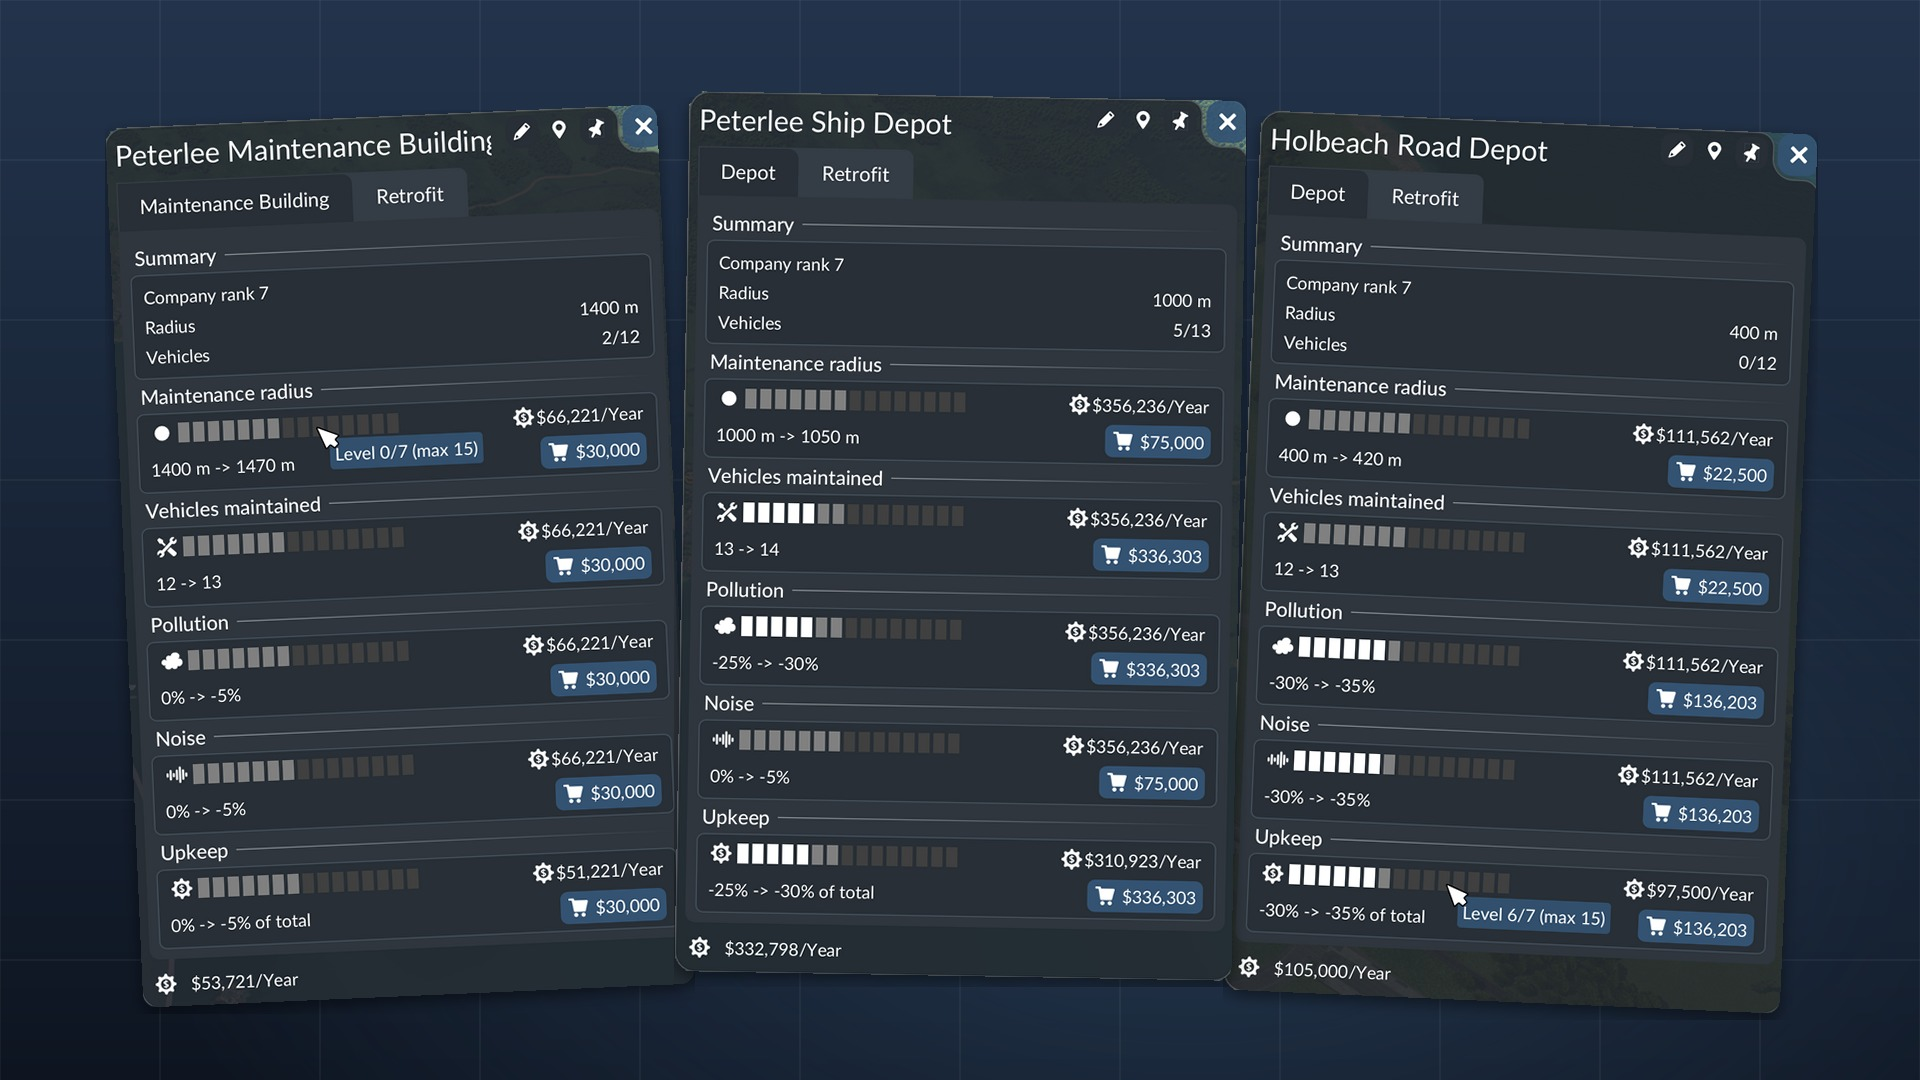
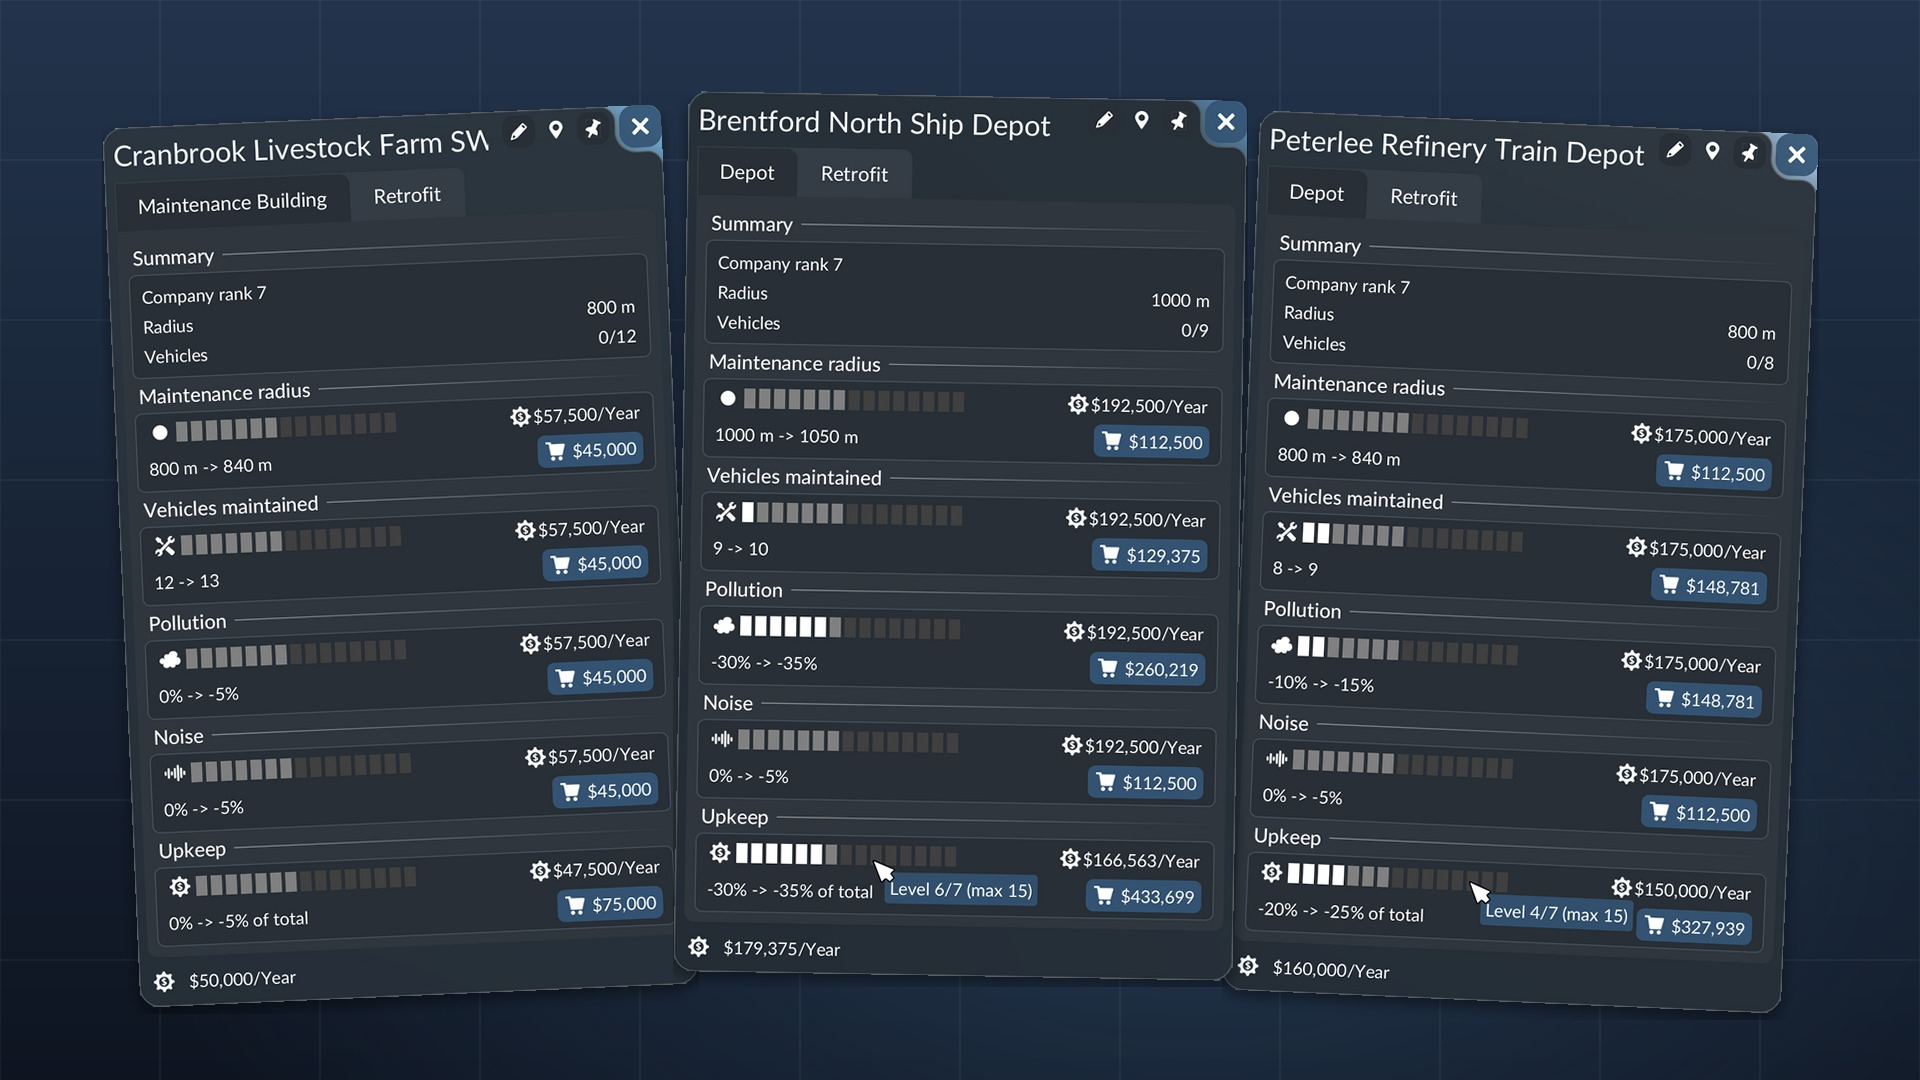
Gallery: retake 1.jpg to 3.jpg with the new prices, add 4.jpg
The old images showed the 0.10 × 1.35 ladder with the upkeep tree priced
like the others. New shots (save WR26A Giga-Tv3 1904 1029-2359, rank 7)
are of buildings at level 0, with only upkeep levels, or bought once since
the 15% upkeep step, so every figure is the current formulas'.

- 1.jpg: maintenance building, ship depot and train depot cards.
- 2.jpg to 4.jpg: ship depot, boathouse, rail maintenance building.
- publishing.md, CLAUDE.md and the make_gallery docstring list the new
  files; TODO ticks the retake.

diff --git a/tools/make_gallery.py b/tools/make_gallery.py
@@ -10,7 +10,7 @@ Cards are listed from the bottom of the pile to the top. angle is in degrees (po
 pixels, slot is its place from the left (default: its place in the list). Needs rsvg-convert, for the background.
 
 The current listing's 1.jpg (three Retrofit tabs) was made with:
-python3 tools/make_gallery.py depot_retrofits_1/_metadata/1.jpg maintenance_building.png:2.5:16:0 road_depot.png:-2.5:22:2 ship_depot.png:-1:-4:1
+python3 tools/make_gallery.py depot_retrofits_1/_metadata/1.jpg maintenance_building.png:2.5:16:0 train_depot.png:-2.5:22:2 ship_depot.png:-1:-4:1
 """
 import subprocess
 import sys

diff --git a/TODO.md b/TODO.md
@@ -3,7 +3,7 @@
 ## In short
 
 - **Where it stands.** 0.5 is on `main`: levels are stored, applied and bought in the Retrofit tab, and the game script only handles buys. It has not been released.
-- **Before a release.** An in-game test of the code review fixes (charging when the rebuild lands, the module wrapper's recorded base pool), new gallery screenshots with the current prices, then the release itself.
+- **Before a release.** An in-game test of the code review fixes (charging when the rebuild lands, the module wrapper's recorded base pool), then the release itself.
 
 ## Before a release
 
@@ -16,7 +16,7 @@
 - [ ] Test the code review fixes in game. Buys: each logs `buy sent` and then `buy charged` with the shown price, the balance falls by it, and a quick double click is still refused (stale or pending) with nothing charged. Roundhouse: add a stall to a levelled one and check the `module` line's `baseSource` (`recorded` means the game hands the modules the wrapper's own table; `inverted` is the fallback) and that the pool is the formula's. Also check that the chimney's pollution or noise is cut by those trees: the wrapper only scales the depot subconstruction's emissions.
 - [ ] Check which finance rows the level charges land in (booked as depot construction).
 - [ ] Confirm that the upkeep tree leaves the vehicles' running cost (the accumulated costs in the upkeep footer) alone, as designed: on two like buildings servicing similar vehicles, one with upkeep levels, the accumulated costs should grow at the same rate.
-- [ ] Retake the gallery `_metadata/1.jpg` to `3.jpg`: they show the old price ladder (the upkeep tree priced like the others), and 2.jpg an old buy tooltip. Use buildings at level 0, with only upkeep levels, or bought once since the 15% upkeep step; buildings levelled before it show prices 25% to 43% too high until rebuilt (docs/design/findings.md). Full 4K screenshots will do: crop the window for `tools/make_gallery.py` (same angles and slots as its docstring), and crop 2.jpg and 3.jpg to 16:9 at 1920x1080.
+- [x] Retake the gallery `_metadata/1.jpg` to `3.jpg`, and add `4.jpg`: the old images showed the old price ladder (the upkeep tree priced like the others), and 2.jpg an old buy tooltip. Use buildings at level 0, with only upkeep levels, or bought once since the 15% upkeep step; buildings levelled before it show prices 25% to 43% too high until rebuilt (docs/design/findings.md). Full 4K screenshots will do: crop the window for `tools/make_gallery.py` (same angles and slots as its docstring), and crop 2.jpg and 3.jpg to 16:9 at 1920x1080.
 - [ ] Release, following [docs/publishing.md](docs/publishing.md): the listing text in `_metadata/modinfo.json` (drop its "IN DEVELOPMENT" paragraph if it no longer applies), the CHANGELOG entry and `modVersion`, README status, the upload, a test of the published copy, then a `v*.*` tag and GitHub release (both immutable). After the first upload, commit `mod.io_fileid.txt` and note whether the gallery took `2.jpg` and `3.jpg`.
 
 ## Design

diff --git a/docs/publishing.md b/docs/publishing.md
@@ -23,7 +23,7 @@
 2. **Upload.** Start the game, open **Mod Hub**, then **My Mods**, and click the mod's card. In the dialog:
    - **Validation** should read "No Issues Found" (**Re-Validate** runs it again).
    - **Preview**: the cover. On the first upload click the slot (camera icon) and pick `0.jpg`; without a cover the card shows a "?".
-   - **Gallery**: `1.jpg`, `2.jpg`, `3.jpg` in that order. See [Gallery](#gallery) before moving any.
+   - **Gallery**: `1.jpg`, `2.jpg`, `3.jpg`, `4.jpg` in that order. See [Gallery](#gallery) before moving any.
    - Tick both **PC** and **Console** for the two files (Windows, Mac and Linux; Xbox Series X/S and PlayStation 5).
    - **Set Public** ticked. Unticked, the page is hidden from visitors.
    - **Update Metadata** ticked, so the page takes the name, summary, description and tags from `modinfo.json`.
@@ -41,7 +41,7 @@
 - **The order is the file names.** In Best Before's dialog the gallery showed its images sorted by name, and the page followed the dialog.
 - **Moving a thumbnail swaps the files.** Each thumbnail in the dialog has a small < (Move Left), > (Move Right) and bin over its top right corner. Moving one swaps the two files' contents on disk and writes nothing else. Commit the files as the dialog leaves them, or the next upload goes back to the old order.
 - **mod.io keeps old names.** A file uploaded under a name mod.io already holds is stored under a new name (`workshop_preview.1.jpg`) and the old one stays on its image server. Numbered files that never change name avoid that; to change an image, replace the file under the same number.
-- **Thumbnails are cropped to 16:9**, so every image is 1920x1080. `1.jpg` is drawn by `tools/make_gallery.py` (its docstring has the command); `2.jpg` and `3.jpg` are game screenshots cropped to 16:9.
+- **Thumbnails are cropped to 16:9**, so every image is 1920x1080. `1.jpg` is drawn by `tools/make_gallery.py` (its docstring has the command); `2.jpg` to `4.jpg` are game screenshots cropped to 16:9, so the shot must leave room above and below the window (a shot narrower than 16:9 loses the window's title or footer).
 
 ## Hub search and tiles
 

diff --git a/CLAUDE.md b/CLAUDE.md
@@ -29,7 +29,7 @@ python3 tools/make_preview.py [--version 0.5] [--keep-svg local/preview/cover.sv
 
 # Redraw the gallery's 1.jpg: hand-cropped screenshots of the building window, laid as a pile of cards on the cover's background
 python3 tools/make_gallery.py depot_retrofits_1/_metadata/1.jpg CARD.png[:angle[:dy[:slot]]] ...   # the docstring has the command for the current image
-# 2.jpg and 3.jpg are game screenshots cropped to 16:9 and scaled to 1920x1080 (the listing's thumbnails are cropped to 16:9). The layout is Industry Upgrades': 0 is the cover, 1 to N the gallery in file-name order, no workshop_preview.jpg (docs/publishing.md)
+# 2.jpg to 4.jpg are game screenshots cropped to 16:9 and scaled to 1920x1080 (the listing's thumbnails are cropped to 16:9). The layout is Industry Upgrades': 0 is the cover, 1 to N the gallery in file-name order, no workshop_preview.jpg (docs/publishing.md)
 ```
 
 Run `tl check` on each script you touch.
